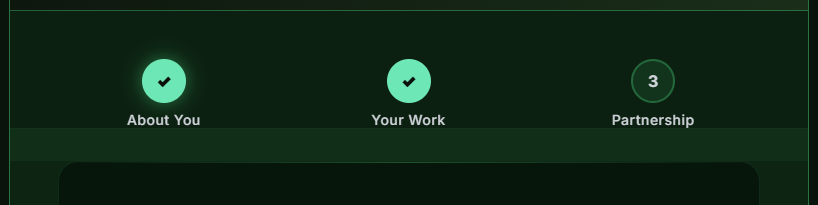
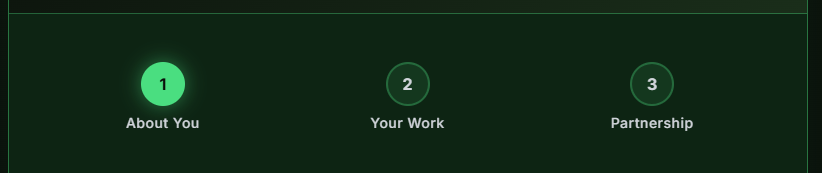
7 - form

diff --git a/request-invitation.html b/request-invitation.html
@@ -126,12 +126,6 @@
             transition: all 0.3s ease;
         }
 
-        .progress-step.active::before {
-            background: var(--accent);
-            color: var(--primary);
-            border-color: var(--accent);
-            box-shadow: 0 0 20px rgba(74, 222, 128, 0.5);
-        }
 
 
         .progress-step span {
@@ -463,7 +457,7 @@
         </div>
 
         <div class="progress-bar">
-            <div class="progress-step active" data-step="1">
+            <div class="progress-step" data-step="1">
                 <span>About You</span>
             </div>
             <div class="progress-step" data-step="2">
@@ -798,10 +792,7 @@
                 const sectionTop = section.offsetTop;
                 const sectionBottom = sectionTop + section.offsetHeight;
 
-                if (scrollPosition >= sectionTop && scrollPosition <= sectionBottom) {
-                    progressSteps.forEach(step => step.classList.remove('active'));
-                    progressSteps[index].classList.add('active');
-                }
+                // Removed dynamic active class switching
             });
         });
 
